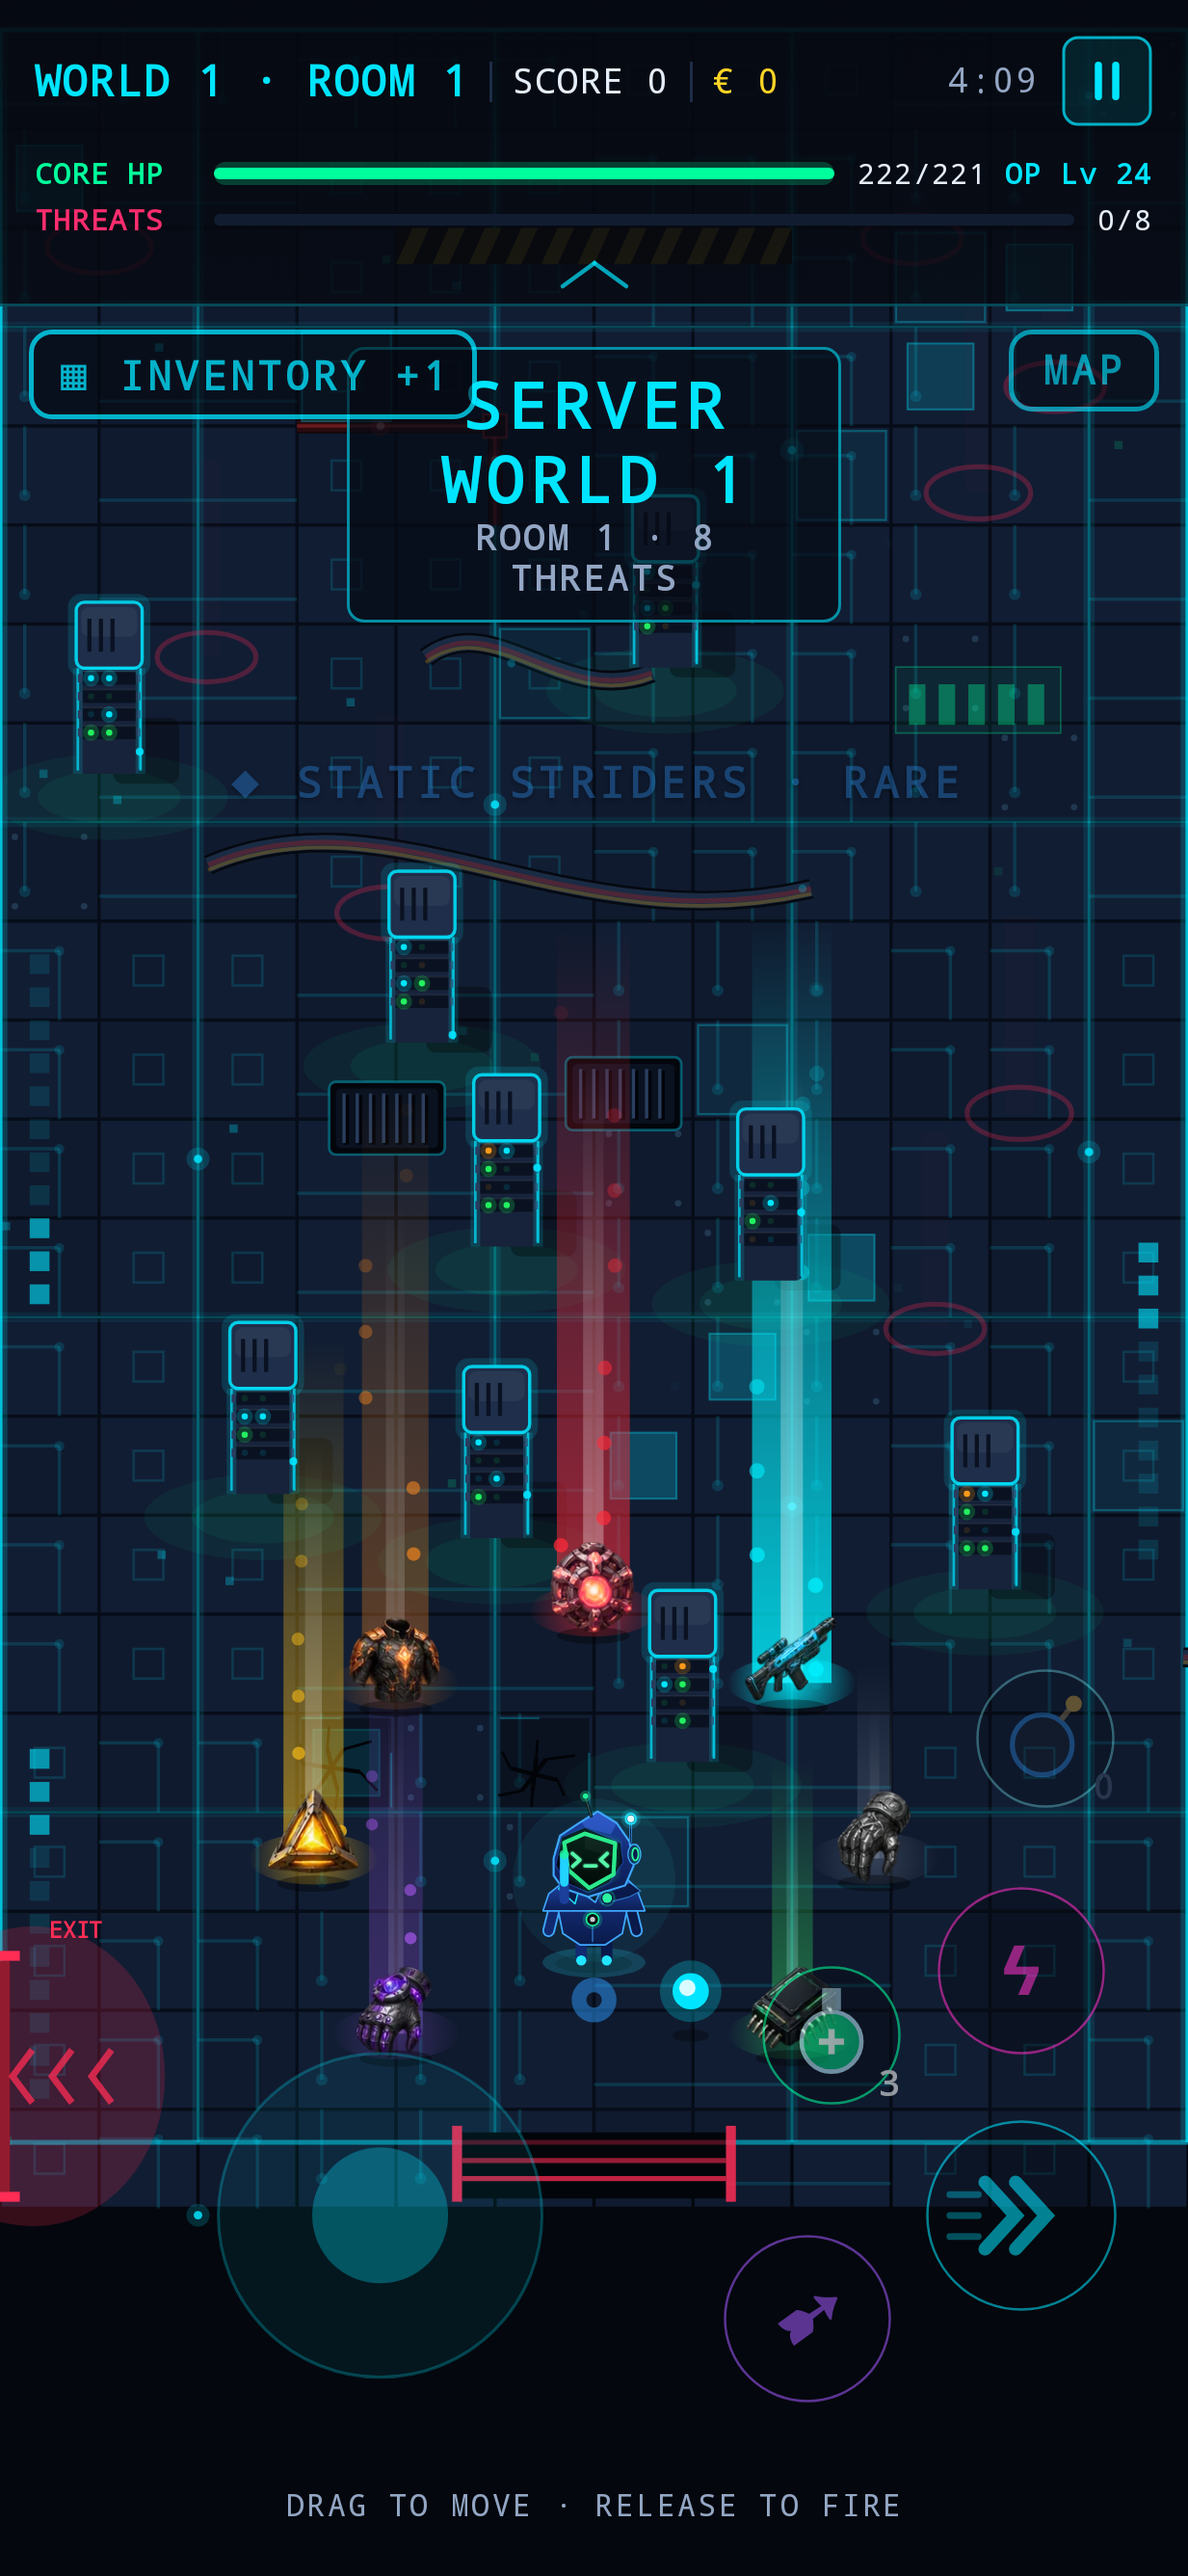
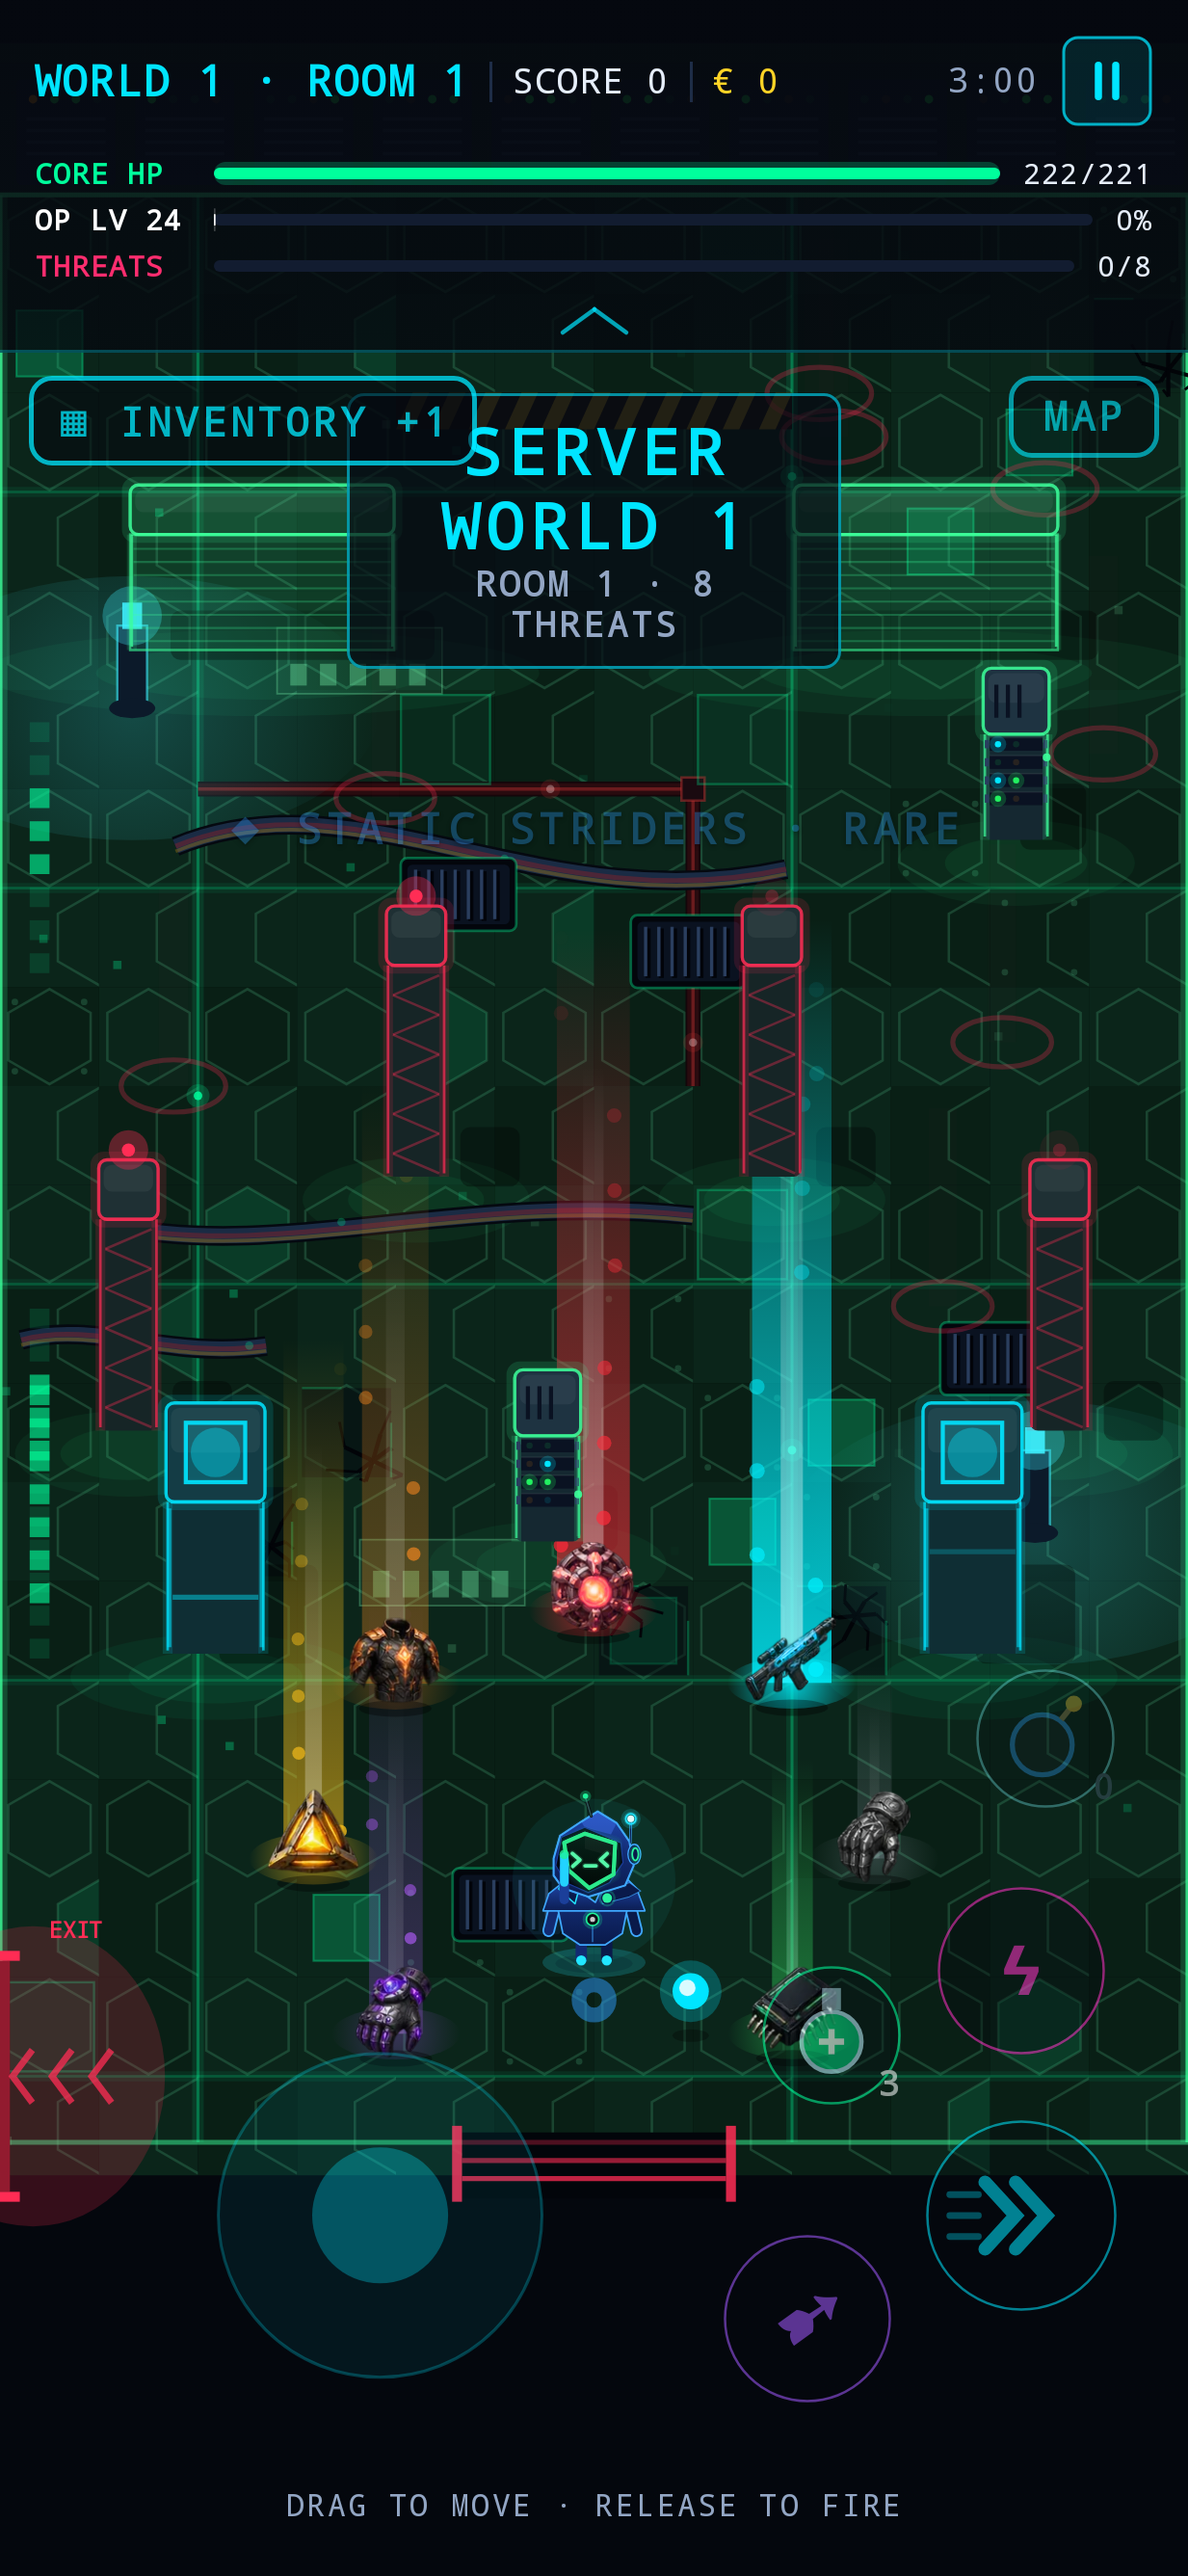
0.30.3: white XP bar (OP Lv · bar · %) in every HUD; new rooms follow the current screen orientation (no wide rooms in portrait); HP readout rounding
Claude-Session: https://claude.ai/code/session_01J4fYSi9rfQR62SLnfyrDCN

diff --git a/app/src/main/java/com/cyberoperative/game/ui/game/GameHud.kt b/app/src/main/java/com/cyberoperative/game/ui/game/GameHud.kt
@@ -130,6 +130,7 @@ fun GameHud(
             HeaderRow(h, paused, onPause)
             Column(Modifier.padding(horizontal = 12.dp)) {
                 HpRow(h)
+                XpRow(h)
                 if (h.coop && !h.partnerGone) PartnerRow(h)
                 ProgressRow(h)
                 if (h.owned.isNotEmpty()) {
@@ -299,8 +300,27 @@ private fun HpRow(h: HudSnapshot, label: String = "CORE HP", labelWidth: android
         color = Palette.healthColor(f),
         overlay = 0f,
         value = "${h.hp}/${h.maxHp}",
-        extra = h.opLabel,
-        description = "Core health ${h.hp} of ${h.maxHp}, ${h.opLabel}"
+        extra = null,
+        description = "Core health ${h.hp} of ${h.maxHp}"
+    )
+}
+
+/**
+ * OP level and a white XP bar filling toward the next level (owner, 2026-10-13:
+ * "OP Lv XX ====" with the bar to the right of the label). Past OP Lv 60 it fills toward the next Overclock level.
+ */
+@Composable
+private fun XpRow(h: HudSnapshot, labelWidth: androidx.compose.ui.unit.Dp = 62.dp) {
+    StatRow(
+        labelWidth = labelWidth,
+        label = h.opLabel,
+        labelColor = Color.White,
+        fraction = h.opFraction,
+        color = Color.White,
+        overlay = 0f,
+        value = "${(h.opFraction * 100f).toInt()}%",
+        extra = null,
+        description = "${h.opLabel}, ${(h.opFraction * 100f).toInt()} percent to the next level"
     )
 }
 
@@ -425,6 +445,7 @@ fun PcHudStrip(h: HudSnapshot, paused: Boolean, onPause: () -> Unit, modifier: M
                 }
                 Spacer(Modifier.height(4.dp))
                 HpRow(h)
+                XpRow(h)
                 if (h.coop && !h.partnerGone) PartnerRow(h)
             }
             Spacer(Modifier.width(28.dp))
@@ -491,6 +512,7 @@ fun CompactHudStrip(h: HudSnapshot, paused: Boolean, onPause: () -> Unit, modifi
             }
             Spacer(Modifier.height(2.dp))
             HpRow(h, label = "HP", labelWidth = 26.dp)
+            XpRow(h, labelWidth = 26.dp)
             if (h.coop && !h.partnerGone) PartnerRow(h)
             Row(verticalAlignment = Alignment.CenterVertically) {
                 if (h.owned.isNotEmpty()) {

diff --git a/app/src/main/java/com/cyberoperative/game/engine/GameEngine.kt b/app/src/main/java/com/cyberoperative/game/engine/GameEngine.kt
@@ -1204,7 +1204,17 @@ class GameEngine(val config: RunConfig = RunConfig(), restore: RunSnapshot? = nu
     // Level lifecycle
     // ======================================================================
 
+    /**
+     * Room shape for the NEXT room (wide landscape or tall portrait), or null to keep the run's.
+     * Android solo runs follow the screen setting (0.30.3, owner: a run started in landscape kept
+     * wide rooms, the boss room included, after switching to portrait, too small to read).
+     */
+    var nextRoomWide: Boolean? = null
+
+    private fun applyRoomShape() { nextRoomWide?.let { com.cyberoperative.game.data.ArenaShape.wide = it } }
+
     private fun startLevel(newLevel: Int, previousArena: String?, previousEvent: Boolean, forced: LevelPlan? = null) {
+        applyRoomShape()
         level = newLevel
         fx.clear()
         if (!mirror) sweepLoot() else loot.clear()
@@ -2345,6 +2355,8 @@ class GameEngine(val config: RunConfig = RunConfig(), restore: RunSnapshot? = nu
         room = r
         revisit = r in clearedRooms
         visitedRooms += r
+        // The campaign plan builds the room's layout, so the shape must be set before it.
+        applyRoomShape()
         startLevel(CampaignMap.levelFor(world, r), null, false, campaignPlan(world, r, revisit))
         exitDoors.clear()
         exitDoors += campaignDoors(r)

diff --git a/app/src/test/java/com/cyberoperative/game/RoomShapeTest.kt b/app/src/test/java/com/cyberoperative/game/RoomShapeTest.kt
@@ -1,0 +1,28 @@
+package com.cyberoperative.game
+
+import com.cyberoperative.game.data.ArenaShape
+import com.cyberoperative.game.engine.CampaignMap
+import com.cyberoperative.game.engine.GameEngine
+import com.cyberoperative.game.engine.GameMode
+import com.cyberoperative.game.engine.RunConfig
+import org.junit.Assert.assertEquals
+import org.junit.Test
+
+/** 0.30.3: a run started in landscape builds its next rooms (the boss room too) for portrait once the screen is portrait. */
+class RoomShapeTest {
+    @Test fun nextRoomFollowsTheScreen() {
+        try {
+            ArenaShape.wide = true
+            val g = GameEngine(RunConfig(seed = 4L, mode = GameMode.CAMPAIGN, consumables = true))
+            assertEquals(ArenaShape.WIDE_WIDTH, g.arena.width, 0.1f)
+            g.nextRoomWide = false
+            g.debugEnterRoom(CampaignMap.BOSS_INDEX)
+            assertEquals(ArenaShape.PORTRAIT_WIDTH, g.arena.width, 0.1f)
+            g.nextRoomWide = true
+            g.debugEnterRoom(1)
+            assertEquals(ArenaShape.WIDE_WIDTH, g.arena.width, 0.1f)
+        } finally {
+            ArenaShape.wide = false
+        }
+    }
+}

diff --git a/app/src/main/java/com/cyberoperative/game/ui/game/GameSession.kt b/app/src/main/java/com/cyberoperative/game/ui/game/GameSession.kt
@@ -363,6 +363,8 @@ class GameSession(
     fun skipVictory() = engine.skipVictory()
 
     fun onFrame(delta: Float) {
+        // Android solo: the next room is built for how the screen is held now (the SCREEN setting).
+        if (coop == null && !com.cyberoperative.game.platform.AppInfo.desktop) engine.nextRoomWide = com.cyberoperative.game.ui.common.PlayMode.landscape
         if (coop != null) coopFrame(delta)
         else if (!paused && !showTutorial) engine.update(delta)
         for (s in engine.sounds) {
@@ -484,7 +486,7 @@ class GameSession(
             score = g.score,
             euros = g.eurosEarned,
             hp = kotlin.math.ceil(g.hp).toInt().coerceAtLeast(0),
-            maxHp = g.stats.maxHp.toInt(),
+            maxHp = kotlin.math.ceil(g.stats.maxHp).toInt(),
             opLabel = opNow.label,
             opFraction = opNow.fraction,
             xpPercent = (g.xpFraction * 100).toInt(),

diff --git a/README.md b/README.md
@@ -16,7 +16,7 @@ Play **co-op** with a friend (friend codes, invites, live two-player runs; see `
 
 ## Project status
 
-`0.30.2` — level XP ×10 (1–60 is 29.2M XP; saves keep their level); `0.30.1` fixed the keyboard closing on the character name and the Packet Mage face parts; `0.30.0` Data Vault update phase 2: gear loot (the owner's art, 8 rarities, beams + sheen), CHARACTER / GEAR / DATA VAULT screens with drag-to-equip, character creator and named characters, in-game INVENTORY; `0.29.0` INFERNO I–X difficulties with a hell look; `0.28.0` Data Vault update phase 1: OP Lv 1–60 + Overclock, Diablo armor, no Firewall, € wipe; `0.27.0` world server: MOVE TO NEXT WORLD (co-op 1/2 ready); `0.26.3` fix: no way on to the next world after the shop; `0.26.2` slim Android landscape HUD; `0.26.1` PC direct-IP co-op (no Steam needed); `0.26.0` co-op shop (a shop each, in and out together); `0.25.9` no HP/Firewall regen over time, MAP corner kept clear of touch buttons; `0.25.8` compact shop window; `0.25.7` room slide follows the door direction; `0.25.6` ALL COLOUR SKINS pack ◇1400; `0.25.5` skins renamed by colour; `0.25.4` fixed the crash on START; crash reporter; PURPLE/GLITCHED campaign skins, GOLD and NEON (◇1000) skins, PROXY SHOT removed; boss loot sprays out; per-player co-op loot; World-map CAMPAIGN (15 worlds); Steam build (PC + Steam Deck, landscape) added in `desktop/`; Boss Expansion Vol. 1 under way; 0.16.0 balance pass (pooled mastery, bigger Packet Flood) (see `DEVELOPMENT_STATE.md` and `docs/BOSS_EXPANSION_LOG.md`).
+`0.30.3` — white XP bar in the HUD; rooms follow the screen orientation; `0.30.2` level XP ×10 (1–60 is 29.2M XP; saves keep their level); `0.30.1` fixed the keyboard closing on the character name and the Packet Mage face parts; `0.30.0` Data Vault update phase 2: gear loot (the owner's art, 8 rarities, beams + sheen), CHARACTER / GEAR / DATA VAULT screens with drag-to-equip, character creator and named characters, in-game INVENTORY; `0.29.0` INFERNO I–X difficulties with a hell look; `0.28.0` Data Vault update phase 1: OP Lv 1–60 + Overclock, Diablo armor, no Firewall, € wipe; `0.27.0` world server: MOVE TO NEXT WORLD (co-op 1/2 ready); `0.26.3` fix: no way on to the next world after the shop; `0.26.2` slim Android landscape HUD; `0.26.1` PC direct-IP co-op (no Steam needed); `0.26.0` co-op shop (a shop each, in and out together); `0.25.9` no HP/Firewall regen over time, MAP corner kept clear of touch buttons; `0.25.8` compact shop window; `0.25.7` room slide follows the door direction; `0.25.6` ALL COLOUR SKINS pack ◇1400; `0.25.5` skins renamed by colour; `0.25.4` fixed the crash on START; crash reporter; PURPLE/GLITCHED campaign skins, GOLD and NEON (◇1000) skins, PROXY SHOT removed; boss loot sprays out; per-player co-op loot; World-map CAMPAIGN (15 worlds); Steam build (PC + Steam Deck, landscape) added in `desktop/`; Boss Expansion Vol. 1 under way; 0.16.0 balance pass (pooled mastery, bigger Packet Flood) (see `DEVELOPMENT_STATE.md` and `docs/BOSS_EXPANSION_LOG.md`).
 
 | | |
 |---|---|

diff --git a/CHANGELOG.md b/CHANGELOG.md
@@ -1,5 +1,18 @@
 # Changelog
 
+## 0.30.3 (versionCode 96) — 2026-10-13 · XP bar, room shape fix
+### Added
+- **White XP bar** in the HUD, under CORE HP: "OP Lv 15" then a white bar filling toward the next level, with the % at the end. Past OP Lv 60 it fills toward the next Overclock level. It shows in the phone portrait HUD, the Android landscape strip and the Steam HUD.
+### Fixed
+- **Wide landscape rooms (the boss room too) in portrait.**
+  - A run keeps the room shape it started with. A run started in landscape (or a saved landscape run continued in portrait) kept building wide rooms, which were tiny on a portrait screen.
+  - On Android, every new room now follows the current screen setting (solo runs; co-op keeps one shape for both players).
+- The HP readout could show more than the maximum (222/221); both numbers now round the same way.
+### Technical
+- `GameEngine.nextRoomWide` is applied before a room is planned (`startLevel`, `enterRoom`); `GameSession.onFrame` sets it from `PlayMode.landscape`.
+- New `RoomShapeTest`.
+- `XpRow` in `GameHud`. The OP label moved out of `HpRow`.
+
 ## 0.30.2 (versionCode 95) — 2026-10-13 · ×10 level XP
 ### Changed (owner: "these XP numbers required to level up need to be multiplied by 10")
 - **Every OP level needs 10× the XP.** Level 1 → 2 is 25,000, 49 → 50 is 841,000, 59 → 60 is 1,620,000, and the whole 1–60 climb is 29,211,000 XP.

diff --git a/DEVELOPMENT_STATE.md b/DEVELOPMENT_STATE.md
@@ -6,7 +6,7 @@ _Read this first in every new session, then README, GAME_DESIGN, BACKLOG, CHANGE
 
 | | |
 |---|---|
-| Version | 0.30.2 (versionCode 95) |
+| Version | 0.30.3 (versionCode 96) |
 | Milestone | M1 vertical slice ✅ · M2 first boss & systems ✅ (pending device playtest) |
 | Last completed | 0.9.5 fullscreen HUD redesign (ui/game/GameHud.kt, buff chips in UpgradeBar.kt) |
 | Current task | Waiting on owner: body design (CO-094) and Power-Up Board picks (CO-090) |
